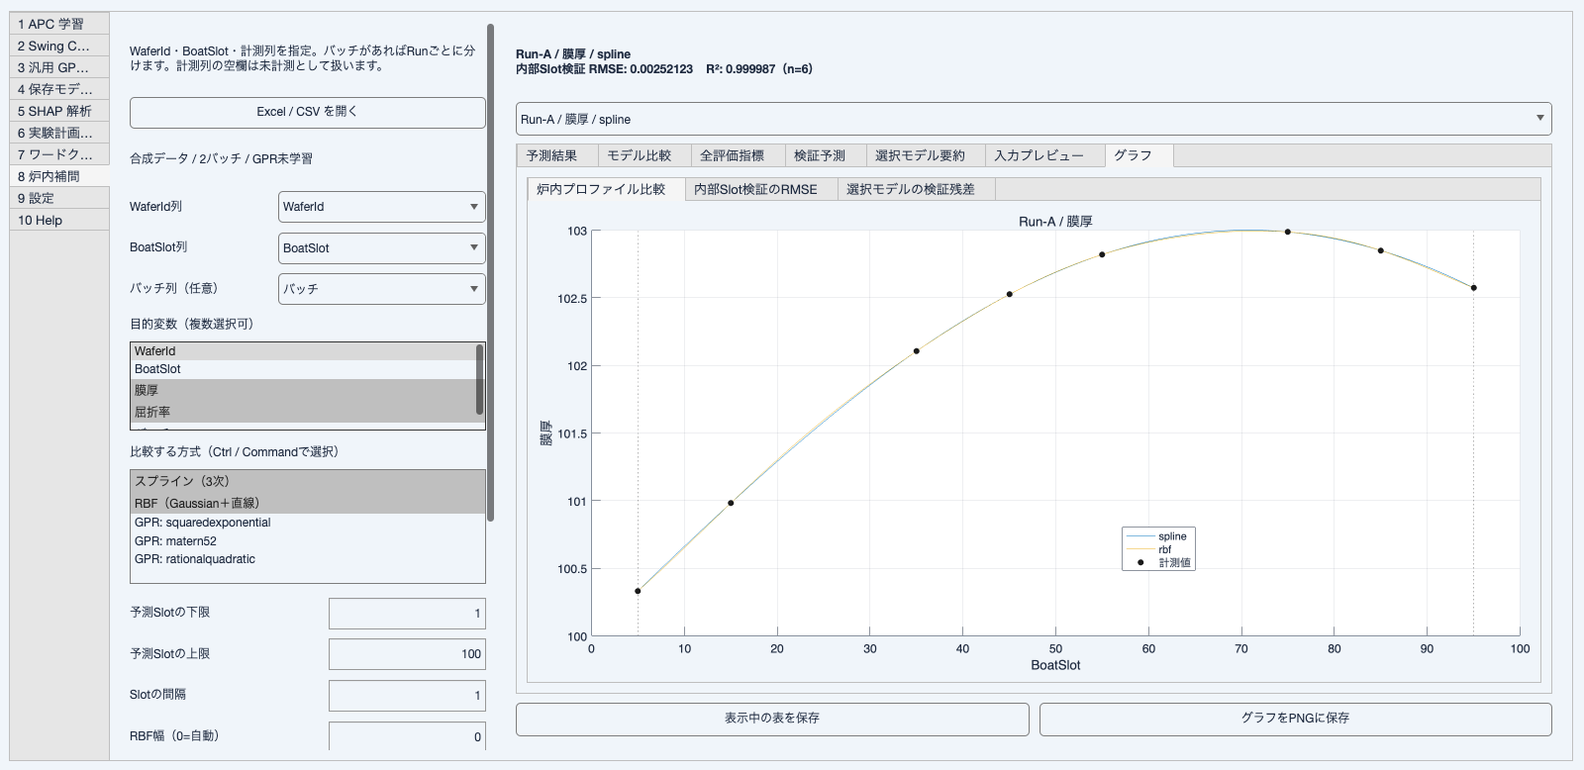
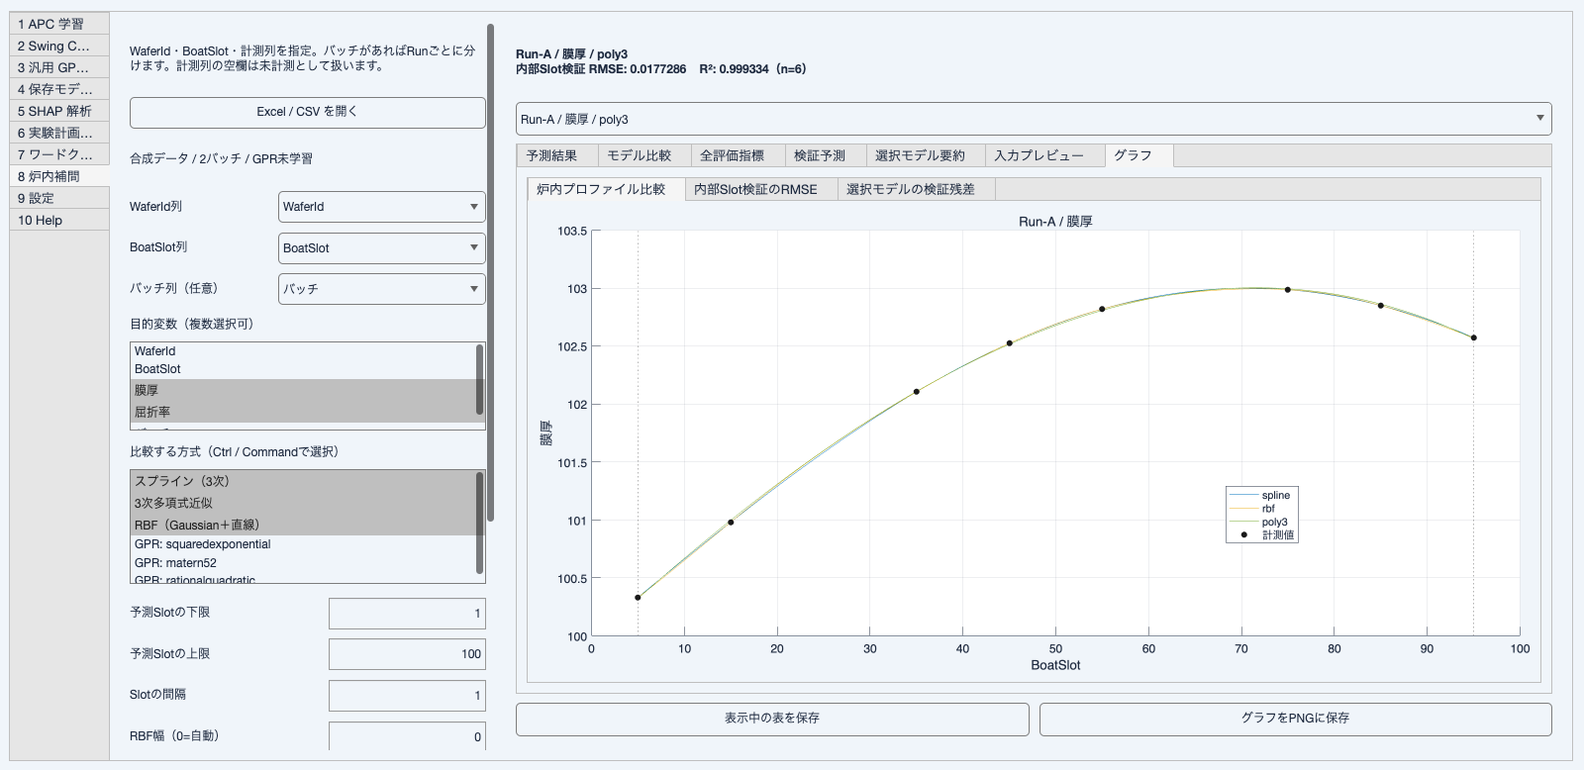
Add cubic polynomial regression to furnace comparisons

diff --git a/tests/TestFurnaceInterpolation.m b/tests/TestFurnaceInterpolation.m
@@ -21,6 +21,38 @@ classdef TestFurnaceInterpolation < matlab.unittest.TestCase
             second = fit_furnace_model(x, 1000 + 5*curved, 'rbf', options);
             testCase.verifyEqual(predict_furnace_model(second, query), 1000 + 5*predict_furnace_model(first, query), 'AbsTol', 1e-9);
         end
+        function cubicPolynomialPreservesSmallResponseAndShiftedSlots(testCase)
+            offsets = [0; 3; 11; 24; 38; 49]; x = 999950 + offsets;
+            response = @(z) 1.46 + 1e-5*(0.01*z.^3 - 0.4*z.^2 + z);
+            model = fit_furnace_model(x, response(offsets), 'poly3'); query = (0:49)';
+            [prediction, deviation, interval] = predict_furnace_model(model, 999950 + query);
+            testCase.verifyEqual(prediction, response(query), 'AbsTol', 1e-14);
+            testCase.verifyTrue(all(isnan(deviation))); testCase.verifyTrue(all(isnan(interval), 'all'));
+            constant = fit_furnace_model(x, 1.46*ones(size(x)), 'poly3');
+            testCase.verifyEqual(predict_furnace_model(constant, x), 1.46*ones(size(x)), 'AbsTol', 1e-14);
+        end
+        function cubicPolynomialUsesAllRowsForLeastSquares(testCase)
+            x = (-3:3)'; y = 10 + x.^3 + [0; 0.3; -0.2; 0.5; -0.1; 0.2; 0];
+            design = [x.^3, x.^2, x, ones(size(x))]; coefficients = design \ y;
+            model = fit_furnace_model(x + 10, y, 'poly3'); prediction = predict_furnace_model(model, x + 10);
+            testCase.verifyEqual(prediction, design*coefficients, 'AbsTol', 1e-12);
+            testCase.verifyGreaterThan(norm(prediction - y), 0.1);
+            testCase.verifyEqual(design'*(prediction - y), zeros(4, 1), 'AbsTol', 1e-10);
+        end
+        function cubicValidationRefitsWithoutHeldOutResponse(testCase)
+            x = [1; 5; 12; 19; 30; 45]; y = 100 + 0.01*x.^3 - 0.4*x.^2 + x + [0; 1; -2; 3; -1; 0];
+            report = evaluate_furnace_models(x, y, {'Film'}, (1:45)', {'poly3'}, struct());
+            testCase.verifyEqual(report.Comparison.Status, "成功"); testCase.verifyEqual(height(report.Metrics), 16);
+            for held_out = 2:numel(x) - 1
+                train = true(size(x)); train(held_out) = false;
+                design = [x(train).^3, x(train).^2, x(train), ones(sum(train), 1)]; coefficients = design \ y(train);
+                expected = [x(held_out)^3, x(held_out)^2, x(held_out), 1]*coefficients;
+                testCase.verifyEqual(report.Series{1}.ValidationPrediction(held_out), expected, 'AbsTol', 1e-9);
+            end
+            inside = report.Series{1}.ValidationPrediction(2:end - 1);
+            testCase.verifyEqual(report.Comparison.RMSE, sqrt(mean((y(2:end - 1) - inside).^2)), 'AbsTol', 1e-12);
+            testCase.verifyTrue(all(isnan(report.Series{1}.ValidationPrediction([1, end]))));
+        end
         function smallResponseScaleIsRestoredWithoutChangingUnits(testCase)
             x = (1:7)'; model = fit_furnace_model(x, x/10, 'spline');
             model.ResponseCenter = 1.46; model.ResponseScale = 1e-5;
@@ -91,8 +123,8 @@ classdef TestFurnaceInterpolation < matlab.unittest.TestCase
         end
         function batchProfilesNeverUseOtherRunsAndKeepWaferIds(testCase)
             source = batchSource(); data = prepare_furnace_data(source, 'WaferId', 'BoatSlot', {'Thickness', 'RefractiveIndex'}, 'バッチ');
-            report = interpolate_furnace_batches(data, (1:9)', {'spline', 'rbf'}, struct());
-            testCase.verifyEqual(height(report.Comparison), 8);
+            report = interpolate_furnace_batches(data, (1:9)', {'spline', 'rbf', 'poly3'}, struct());
+            testCase.verifyEqual(height(report.Comparison), 12);
             testCase.verifyEqual(unique(report.Comparison.Batch), ["A"; "B"]);
             a = report.Predictions(report.Predictions.Batch == "A" & report.Predictions.Target == "Thickness" & report.Predictions.Method == "spline", :);
             b = report.Predictions(report.Predictions.Batch == "B" & report.Predictions.Target == "Thickness" & report.Predictions.Method == "spline", :);
@@ -100,6 +132,9 @@ classdef TestFurnaceInterpolation < matlab.unittest.TestCase
             testCase.verifyEqual(a.WaferId(1:7), "W" + string((1:7)')); testCase.verifyEqual(a.WaferId(8:9), [""; ""]);
             testCase.verifyEqual(a.SourceRow(1:7), (2:8)'); testCase.verifyTrue(all(isnan(a.SourceRow(8:9))));
             testCase.verifyEqual(report.Validation.WaferId(1:7), "W" + string((1:7)'));
+            a = report.Predictions(report.Predictions.Batch == "A" & report.Predictions.Target == "Thickness" & report.Predictions.Method == "poly3", :);
+            b = report.Predictions(report.Predictions.Batch == "B" & report.Predictions.Target == "Thickness" & report.Predictions.Method == "poly3", :);
+            testCase.verifyEqual(b.Predicted(1:7) - a.Predicted(1:7), 100*ones(7, 1), 'AbsTol', 1e-10);
             for index = 1:numel(report.Series)
                 item = report.Series{index};
                 if item.Target == "Thickness" && item.Batch == "A", testCase.verifyLessThan(max(item.Actual), 100); end

diff --git a/app/create_app_help.m b/app/create_app_help.m
@@ -1,11 +1,12 @@
 function create_app_help(tab, project_root)
 layout = uigridlayout(tab, [6, 1], 'Scrollable', 'on');
-layout.RowHeight = {40, 270, 90, 230, 170, 36};
+layout.RowHeight = {40, 270, 90, 230, 204, 36};
 uilabel(layout, 'Text', 'Help — 用語、評価の読み方、公式の関数ヘルプ', 'FontWeight', 'bold');
 terms = {
     '炉内補間 / バッチ', 'LP-CVDのBoatSlotと膜厚・屈折率の関係を、成膜Runごとに別々に学習します。同時処理する複数Lotは同じRunのSlotプロファイルとして扱い、異なるバッチの値は混ぜません。';
     'WaferId / 未計測', '識別子はモデルの説明変数にしません。計測列の空欄だけを未計測として除き、項目別に利用できるSlotで学習します。入力行に対応するWaferIdを予測表へ残し、入力にない生成SlotのWaferIdは空欄です。';
     'スプライン / RBF', 'スプラインはnot-a-knotの3次補間。RBFはGaussian基底＋直線トレンドで正則化します。幅0では学習Slot間隔の中央値の2倍を使用。両者には予測区間を付けません。';
+    '3次多項式近似 / poly3', 'Run・計測項目ごとにy=a×BoatSlot³+b×BoatSlot²+c×BoatSlot+dを最小二乗法で当てはめます。スプラインと異なり、計測点を必ず通りません。学習行だけでSlot・応答を規格化し、内部Slot検証と8指標で比較します。予測区間は付けません。';
     '炉内のGPR', 'squaredexponential、matern52、rationalquadraticを比較。exact・線形基底・標準化を使い、各学習でカーネル量とノイズを学習します。表示する95%区間は応答の予測区間で、真の成膜値の範囲を保証するものではありません。';
     '内部Slot検証', '計測位置が5点以上の項目で、両端を固定し内部Slotを1点ずつ学習から外して予測。8指標は内部Slotの検証予測を結合して計算し、順位は同じバッチ・同じ計測項目の中で付けます。端部や外挿の精度は評価しません。';
     '炉内の外挿', '計測範囲外は初期状態で予測せずNaNと理由を表示。明示的に有効にした場合だけ計算し、表と破線で区別します。カーネル選定にも使った検証値は独立な最終評価の代わりにはなりません。';
@@ -54,11 +55,11 @@ uitextarea(layout, 'Editable', 'off', 'Value', {
     'D/I の探索候補は各因子 −1/0/1。I の積分対象は連続な一様領域 [-1,1]^k。局所探索のため最適性は保証しません。';
     '実験計画は1〜8因子、追加1〜300件、既存＋追加500件以下。直交表では実験数の欄を使用しません。';
     '設定：保存先、テーマ、kernel、fit_method、入力数、ビン数、因子数、実験数、seed、SHAP表示の初期値を変更できます。'});
-links = uigridlayout(layout, [5, 4]); links.Padding = [0, 0, 0, 0];
+links = uigridlayout(layout, [6, 4]); links.Padding = [0, 0, 0, 0];
 functions = {'fitrgp', 'RegressionGP', 'shapley', 'swarmchart', 'wordcloud', 'cordexch', 'daugment', 'fracfact', ...
-    'lillietest', 'skewness', 'kurtosis', 'norminv', 'cvpartition', 'crossval', 'rng', 'randperm', 'spline', 'ppval', 'fill', 'RegressionGP.predict'};
+    'lillietest', 'skewness', 'kurtosis', 'norminv', 'cvpartition', 'crossval', 'rng', 'randperm', 'spline', 'ppval', 'fill', 'RegressionGP.predict', 'polyfit', 'polyval'};
 folders = {'stats', 'stats', 'stats', 'matlab/ref', 'matlab/ref', 'stats', 'stats', 'stats', 'stats', 'stats', 'stats', 'stats', ...
-    'stats', 'stats', 'matlab/ref', 'matlab/ref', 'matlab/ref', 'matlab/ref', 'matlab/ref', 'stats'};
+    'stats', 'stats', 'matlab/ref', 'matlab/ref', 'matlab/ref', 'matlab/ref', 'matlab/ref', 'stats', 'matlab/ref', 'matlab/ref'};
 for index = 1:numel(functions)
     url = ['https://www.mathworks.com/help/' folders{index} '/' lower(functions{index}) '.html'];
     uibutton(links, 'Text', [functions{index} ' ↗'], 'ButtonPushedFcn', @(~, ~) web(url, '-browser'));

diff --git a/tests/run_furnace_ui_smoke.m b/tests/run_furnace_ui_smoke.m
@@ -1,5 +1,5 @@
 function run_furnace_ui_smoke(image_folder)
-% 実GPRを学習せず、スプライン/RBFと合成入力で画面を確認する。
+% 実GPRを学習せず、スプライン/RBF/3次多項式と合成入力で画面を確認する。
 if nargin < 1, image_folder = ''; end
 [app, cleanup] = create_display_preview(); %#ok<ASGLU>
 assert(isempty(app.Furnace)); app.openFurnace(); view = app.Furnace;
@@ -15,21 +15,23 @@ source = struct('FileName', 'synthetic_furnace.csv', 'Headers', {{'WaferId', 'Bo
     'Cells', {cells}, 'RowNumbers', (2:2*rows + 1)');
 view.importSource(source); assert(strcmp(view.Batch.Value, 'バッチ')); assert(numel(view.Targets.Value) == 2);
 assert(view.Minimum.Value == 5 && view.Maximum.Value == 95);
-view.Methods.Value = {'spline', 'rbf'}; view.Minimum.Value = 1; view.Maximum.Value = 100; view.confirm(); assert(view.Confirmed);
+assert(numel(view.Methods.Value) == 6 && any(strcmp(view.Methods.ItemsData, 'poly3')));
+view.Methods.Value = {'spline', 'rbf', 'poly3'}; view.Minimum.Value = 1; view.Maximum.Value = 100; view.confirm(); assert(view.Confirmed);
 data = prepare_furnace_data(source, 'WaferId', 'BoatSlot', {'膜厚', '屈折率'}, 'バッチ');
-report = interpolate_furnace_batches(data, (1:100)', {'spline', 'rbf'}, struct());
+report = interpolate_furnace_batches(data, (1:100)', {'spline', 'rbf', 'poly3'}, struct());
 view.showReport(report);
-assert(height(view.Tables.Comparison.Data) == 8); assert(height(view.Tables.Predictions.Data) == 800);
-assert(height(view.Tables.Metrics.Data) == 128); assert(strcmp(view.Selection.Enable, 'on'));
-assert(numel(view.Charts{1}.Children) >= 3);
-view.Selection.Value = 5; view.Selection.ValueChangedFcn(view.Selection, []);
+assert(height(view.Tables.Comparison.Data) == 12); assert(height(view.Tables.Predictions.Data) == 1200);
+assert(height(view.Tables.Metrics.Data) == 192); assert(strcmp(view.Selection.Enable, 'on'));
+assert(numel(view.Charts{1}.Children) >= 4);
+view.Selection.Value = 7; view.Selection.ValueChangedFcn(view.Selection, []);
 assert(contains(view.Headline.Text, 'Run-B'));
-view.Selection.Value = 1; view.Selection.ValueChangedFcn(view.Selection, []);
+view.Selection.Value = 3; view.Selection.ValueChangedFcn(view.Selection, []);
+assert(contains(view.Headline.Text, 'poly3'));
 view.Source.Text = '合成データ / 2バッチ / GPR未学習';
-view.Messages.Value = {'R2022bの表示・操作の補助確認'; 'スプライン/RBFのみ補助計算。GPRは未学習。'; 'WaferIdは架空のDEMO識別子。実測データではありません。'};
+view.Messages.Value = {'R2022bの表示・操作の補助確認'; 'スプライン/RBF/3次多項式のみ補助計算。GPRは未学習。'; 'WaferIdは架空のDEMO識別子。実測データではありません。'};
 view.Tabs.SelectedTab = view.Tables.Comparison.Parent.Parent;
-assert(height(view.currentTable()) == 8);
-file = [tempname, '.csv']; file_cleanup = onCleanup(@() delete(file)); writetable(view.currentTable(), file); loaded = readtable(file); assert(height(loaded) == 8);
+assert(height(view.currentTable()) == 12);
+file = [tempname, '.csv']; file_cleanup = onCleanup(@() delete(file)); writetable(view.currentTable(), file); loaded = readtable(file); assert(height(loaded) == 12);
 if ~isempty(image_folder)
     drawnow; exportapp(app.Window, fullfile(image_folder, '31-furnace-comparison.png'));
 end
@@ -50,5 +52,5 @@ fprintf('Furnace native resize: width=%g / row=%g / column=%g\n', app.Window.Pos
 assert(view.Right.Layout.Column == 2);
 app.openFurnace(); assert(isequal(app.Furnace, view));
 assert(numel(findall(groot, 'Type', 'figure')) == 1);
-fprintf('Furnace UI: batch/wafer mapping, sparse targets, comparison, profiles, CSV/PNG, lock, settings, resize, single window: PASS\n');
+fprintf('Furnace UI: spline/RBF/poly3, batch/wafer mapping, sparse targets, comparison, profiles, CSV/PNG, lock, settings, resize, single window: PASS\n');
 end

diff --git a/core/fit_furnace_model.m b/core/fit_furnace_model.m
@@ -12,6 +12,16 @@ model = struct('Method', method, 'Fit', []);
 switch method
     case 'spline'
         model.Fit = spline(slots, response);
+    case 'poly3'
+        center = mean(slots); scale = max(slots) - min(slots);
+        model.ResponseCenter = mean(response); model.ResponseScale = std(response);
+        if model.ResponseScale == 0, model.ResponseScale = 1; end
+        standardized_response = (response - model.ResponseCenter) / model.ResponseScale;
+        [coefficients, statistics] = polyfit((slots - center) / scale, standardized_response, constants.PolynomialDegree);
+        if rcond(statistics.R) < constants.MinimumReciprocalCondition
+            error('furnace:illConditioned', '3次多項式近似の計算が不安定です。計測Slotの配置を確認してください。');
+        end
+        model.Fit = struct('Center', center, 'Scale', scale, 'Coefficients', coefficients);
     case 'rbf'
         validateattributes(options.RBFWidth, {'numeric'}, {'scalar', 'real', 'finite', 'nonnegative'});
         validateattributes(options.RBFRidge, {'numeric'}, {'scalar', 'real', 'finite', '>=', constants.MinimumRBFRidge, '<=', constants.MaximumRBFRidge});

diff --git a/core/furnace_constants.m b/core/furnace_constants.m
@@ -1,6 +1,7 @@
 function constants = furnace_constants()
-constants.Methods = {'spline', 'rbf', 'gpr_squaredexponential', 'gpr_matern52', 'gpr_rationalquadratic'};
-constants.Labels = {'スプライン（3次）', 'RBF（Gaussian＋直線）', 'GPR: squaredexponential', 'GPR: matern52', 'GPR: rationalquadratic'};
+constants.Methods = {'spline', 'poly3', 'rbf', 'gpr_squaredexponential', 'gpr_matern52', 'gpr_rationalquadratic'};
+constants.Labels = {'スプライン（3次）', '3次多項式近似', 'RBF（Gaussian＋直線）', 'GPR: squaredexponential', 'GPR: matern52', 'GPR: rationalquadratic'};
+constants.PolynomialDegree = 3;
 constants.MinimumMeasuredSlots = 5;
 constants.MaximumMeasuredSlots = 300;
 constants.MaximumQuerySlots = 2000;

diff --git a/core/predict_furnace_model.m b/core/predict_furnace_model.m
@@ -5,6 +5,8 @@ slots = double(slots(:)); deviation = NaN(size(slots)); interval = NaN(numel(slo
 switch model.Method
     case 'spline'
         prediction = ppval(model.Fit, slots); prediction = prediction(:);
+    case 'poly3'
+        fit = model.Fit; prediction = polyval(fit.Coefficients, (slots - fit.Center) / fit.Scale);
     case 'rbf'
         fit = model.Fit; z = (slots - fit.Center) / fit.Scale;
         basis = [exp(-0.5 * ((z - fit.Slots') / fit.Width).^2), ones(size(z)), z];

diff --git a/verification.md b/verification.md
@@ -133,3 +133,13 @@ R2025bの実GPRによる比較、採用モデルの保存・後続SHAP、Windows
 - 手順書にWaferId・バッチ・未計測列の入力例、比較方法、内部検証と外挿の限界、GPRの応答予測区間の説明を追加。架空の2バッチ・2項目のスプライン/RBF補助画面2枚を追加した。PC幅1600/1366、本文14px、横幅のはみ出しなし、画像33箇所・ローカル参照46箇所の読込を確認した。
 
 R2025bでの炉内GPR、微小な屈折率変動と定数応答、CSV/Excel/PNGを含む画面全体、Windows Compiler / Runtimeは未確認。内部Slotの検証は端部・外挿を評価せず、候補選定にも使う値なので、独立な実測で確認する。炉内モデルは制御用Train_Modelへ保存しない。
+
+## 2026-10-29 炉内補間の3次多項式近似
+
+- 比較候補へ3次多項式近似（poly3）を追加し、既定の選択を6方式とした。Run・計測項目ごとに全学習行を最小二乗法で1本の3次式へ当てはめる。Slotと応答の規格化は各学習内だけで計算し、予測は元の応答単位へ戻す。最少計測点は5点のまま。スプラインと同じ内部Slot検証・8指標・順位・外挿区分・CSV/Excel/PNGへ組み込んだ。
+- R2022bで数値補助テスト86件（従来70＋炉内16）が成功。追加3件は大きなSlotオフセットと微小応答の3次式再現・定数応答、ノイズを含む全行の最小二乗解との一致、検証対象を除いた独立な最小二乗解との一致を確認した。既存のバッチ分離試験にもpoly3を加え、Run間の非混入を確認した。実GPRは学習・保存していない。
+- 静的解析は既存5提案のみ、原仕様の学習4種類・保存の正本5ブロックは一致した。
+- 表示専用コピーのrun_furnace_ui_smokeが成功。既定6方式、poly3の選択とRMSE/R²、2バッチ×2項目×3方式の比較12行・予測1200行・全指標192行、比較曲線、CSV往復・PNG、条件変更・設定・ロック・幅900/1366・単一ウィンドウを確認した。炉内の参考画像2枚を差し替えた。
+- Helpへ用語とpolyfit/polyvalの公式リンク、画像付きHTML手順書へ最小二乗近似の意味と6方式の操作を追記。ブラウザはPC幅1600/1366で本文14px、横幅のはみ出しなし、画像33箇所の読込、目次リンクを確認した。
+
+3次多項式は計測点を必ず通らず、応答の予測区間は付けない。候補選定に使った内部Slot検証は独立評価ではなく、端部・外挿性能も評価しない。R2025bおよびWindows/Runtimeでの最終確認は未実施。

diff --git a/README.md b/README.md
@@ -4,7 +4,7 @@
 
 「8 炉内補間」はLP-CVDのBoatSlotから膜厚・屈折率などを予測します。入力はWaferId・BoatSlot・1列以上の計測値、任意のバッチ列です。同時処理する複数Lotは同じRunのプロファイルとして扱い、バッチ列がある場合はRunごとに分離して学習します。バッチの値は成膜Runを一意に識別するようにしてください。バッチ列なしではファイル全体を1Runとして扱います。
 
-計測列の空欄は項目別の未計測として扱い、各バッチ・各項目で5点以上の計測Slotが必要です。スプライン、Gaussian RBF＋直線、GPR（squaredexponential / matern52 / rationalquadratic）を比較します。内部Slotを1点ずつ外した検証の8指標と、全計測Slotの学習指標を表示し、順位はバッチ・項目ごとに付けます。両端は検証から除くため、端部・外挿の精度を表す評価ではありません。
+計測列の空欄は項目別の未計測として扱い、各バッチ・各項目で5点以上の計測Slotが必要です。スプライン、3次多項式近似、Gaussian RBF＋直線、GPR（squaredexponential / matern52 / rationalquadratic）を比較します。内部Slotを1点ずつ外した検証の8指標と、全計測Slotの学習指標を表示し、順位はバッチ・項目ごとに付けます。両端は検証から除くため、端部・外挿の精度を表す評価ではありません。3次多項式近似（poly3）は、各Run・各項目の計測値全体を1本の3次式へ最小二乗法で当てはめる方式で、計測点を必ず通るものではありません。
 
 予測範囲と間隔を指定し、バッチ・項目・候補別の予測表、WaferId・元ファイル行、比較図、検証残差、要約を確認できます。入力にない生成SlotのWaferIdは空欄です。対応付けたい未計測Waferは、計測列だけを空欄にして入力へ含めてください。範囲外は初期状態で計算せず、外挿を有効にした場合は表と破線で区別します。95%応答予測区間はGPRだけに付けます。CSV / Excel / PNGへ書き出し、炉内補間のモデルMAT保存は行いません。[画像付き手順](docs/user-guide/procedure-guide.html#furnace-interpolation)を参照してください。設定・Helpは「9 設定」「10 Help」です。
 

diff --git a/issues.md b/issues.md
@@ -13,5 +13,5 @@
 - [x] I-011 Swing Curve近似残差の分布・正規Q–Q・残差対膜厚、Lilliefors検定、歪度・尖度・超過尖度、CSV / Excel / PNG出力を追加。参考診断であることと数値しきい値以下の対象外判定を明示し、数値・UI補助試験を確認。R2025b / Windowsの最終確認はI-001・I-003。
 - [x] I-012 Swing専用のswingperiodic、周期の周辺尤度による内部探索、履歴と図、専用既定値、周期をモデル内に保持する保存・照合処理を実装。R2022bでは数値61テスト・表示試験・カーネル関数だけの別セッション読込みを補助確認。R2025bの実GPR・SHAP・モデル保存・制御側予測・RuntimeはI-001・I-003で確認する。
 - [x] I-013 APC・Swing Curve・汎用GPRに複数カーネルの一括交差検証・比較表・アプリ内グラフ・採用候補切替・完全モデルの選択保存を追加。数値70テストと表示補助試験を確認。周期は各分割内で再探索する。R2025bでの実GPR比較・採用モデル保存・後続SHAP・Windows / RuntimeはI-001・I-003で最終確認する。
-- [x] I-014 炉内補間タブ、WaferId・BoatSlot・目的変数・バッチの入力、Run分離、スプライン/RBF/3 GPR比較、内部Slot検証、外挿区分、GPR応答予測区間、CSV/Excel/PNGを実装。炉内13件を含む数値補助確認は計83件。R2025bの実GPR・ネイティブUI・Windows/RuntimeはI-001・I-003で確認する。
+- [x] I-014 炉内補間タブ、WaferId・BoatSlot・目的変数・バッチの入力、Run分離、スプライン/3次多項式/RBF/3 GPR比較、内部Slot検証、外挿区分、GPR応答予測区間、CSV/Excel/PNGを実装。炉内16件を含む数値補助確認は計86件。R2025bの実GPR・ネイティブUI・Windows/RuntimeはI-001・I-003で確認する。
 - [x] I-015 表示・Help・文書と参考画面をSwing Curveへ統一し、全10タブの番号とビルド同梱対象を更新。内部の関数名・モデル識別子・正本の学習保存コードは維持する。

diff --git a/docs/user-guide/guide-verification.md b/docs/user-guide/guide-verification.md
@@ -66,3 +66,9 @@ HTMLをfile://で直接開く操作は自動ブラウザの制約で未確認。
 - 本文・呼称と画面画像をSwing Curveへ統一。炉内タブは8、設定は9、Helpは10。炉内の参考画面2枚を追加し、画像ファイル32枚（参考30＋公式2）、本文33箇所とした。炉内画像は2バッチの架空データによるR2022bのスプライン/RBF補助計算で、GPRは未実行。
 - PlaywrightスキルのCLIでPC幅1600×1000 / 1366×900を確認。本文14px、横幅のはみ出しなし、本文画像33箇所すべて読込、目次リンク切れなし。11-F閲覧中に11章が現在位置となる。ローカル参照46箇所の欠落は0件。
 - 数値補助確認は計83件。炉内のグリッド構成と部品配置の順序を修正後、直接確認とR2022bの表示専用コピーで幅900/1366のリサイズを含む試験が成功した。CSV/PNG、設定・ロック・消去とバッチ切替も確認した。対象リリースの動作確認とは区別し、R2025bの実GPR・微小応答・予測区間とWindows/Runtimeは未確認。
+
+## 炉内補間の3次多項式近似（2026-10-29）
+
+- 11-Fの候補を既定6方式へ更新し、poly3の最小二乗近似、スプラインとの違い、学習内の規格化、予測区間を付けないことを追記した。公式polyfitのリンクも追加した。
+- 炉内参考画像2枚を、スプライン/RBF/3次多項式の補助計算とpoly3選択時のRMSE/R²・3曲線へ差し替えた。GPRは未学習。画像ファイル32枚、本文33箇所の構成は維持した。
+- PlaywrightでPC幅1600×1000 / 1366×900、本文14px、横幅のはみ出しなし、画像33箇所の読込、目次リンク、6方式とpoly3の説明表示を確認した。数値補助確認86件と炉内UI補助試験が成功した。対象のR2025b / Windows / Runtime確認は引き続き未実施。
